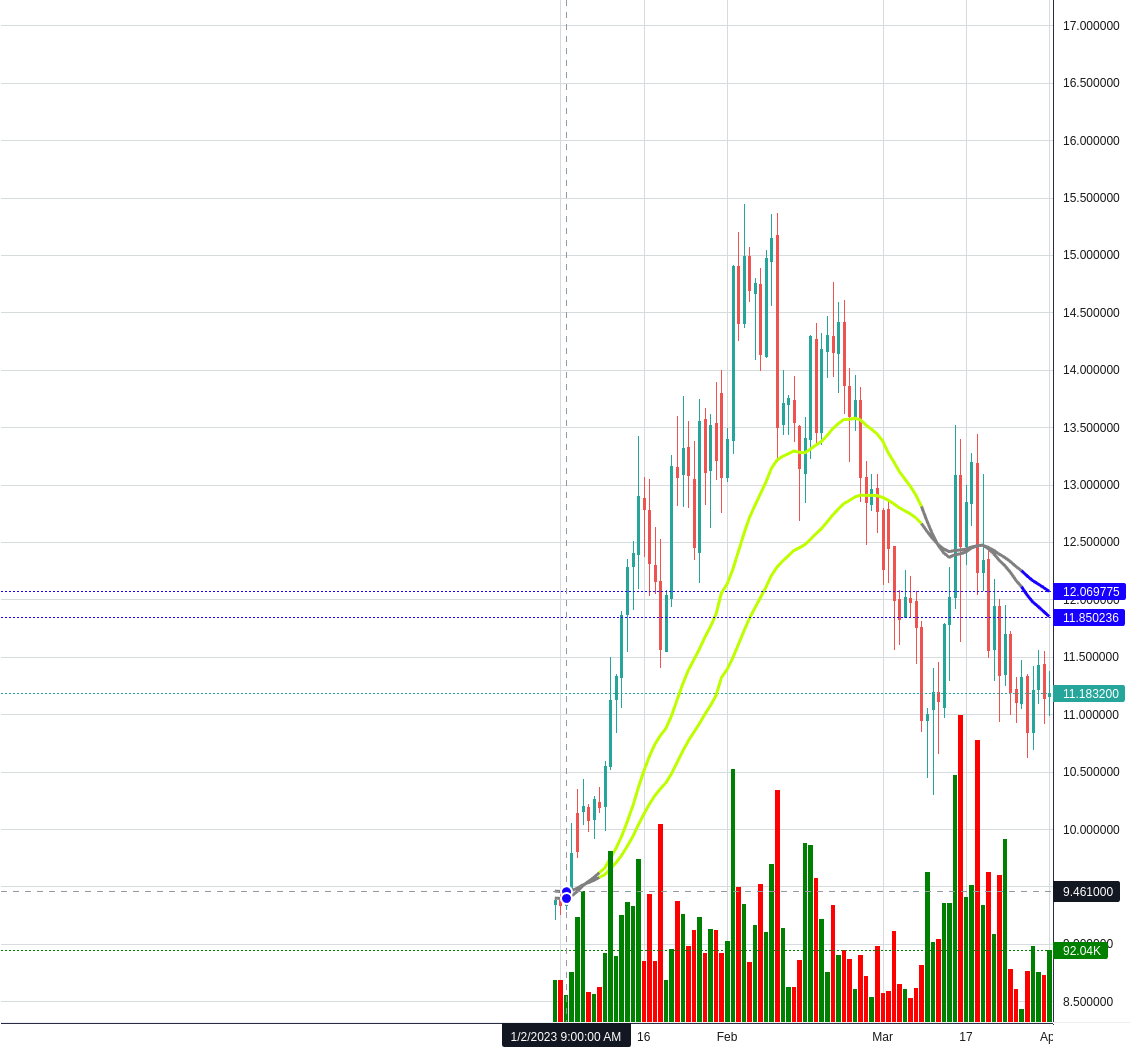
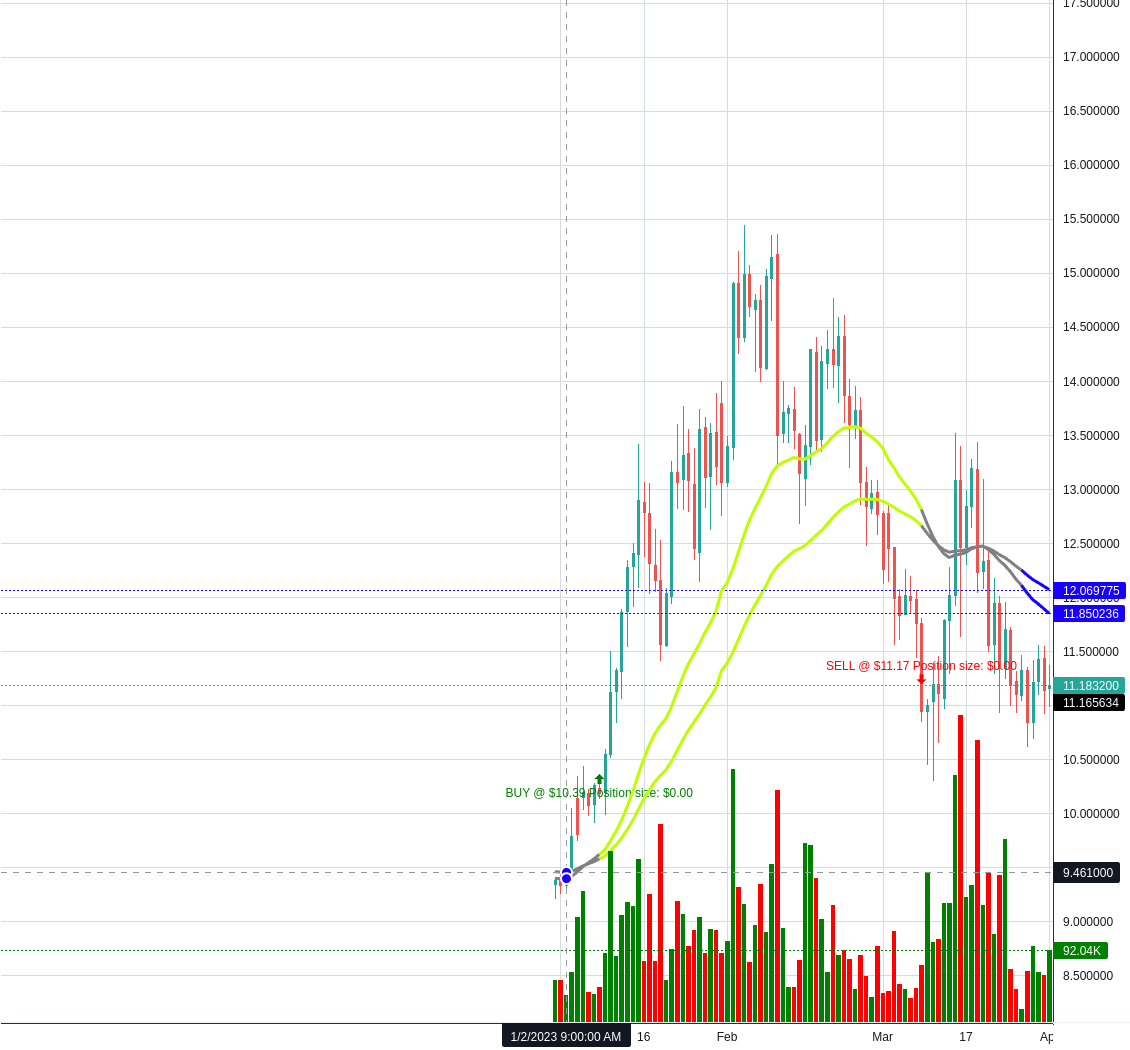
Visualize backtest trades in chart

diff --git a/app/javascript/controllers/asset_pair_chart_component_controller.js b/app/javascript/controllers/asset_pair_chart_component_controller.js
@@ -27,6 +27,7 @@ class Datafeed {
     this.fastTrends = []
     this.volumes = []
     this.candles = []
+    this.backtestTrades = []
   }
 
   load = async () => {
@@ -51,6 +52,7 @@ class Datafeed {
     this.fastTrends = [...data.fastTrends, ...this.fastTrends]
     this.volumes = [...data.volumes, ...this.volumes]
     this.candles = [...data.candles, ...this.candles]
+    this.backtestTrades = [...data.backtestTrades, ...this.backtestTrades]
   }
 }
 
@@ -64,6 +66,7 @@ export default class extends Controller {
     this.loadedRanges = []
     this.chart = createChart(this.element, { localization: { timeFormatter: timeFormatter } })
     this.ohlcSeries = this.chart.addCandlestickSeries()
+    this.backtestTrades = this.chart.addLineSeries({ color: 'transparent', lineWidth: 0, crossHairMarkerVisible: false })
     this.smoothedTrendSlow = this.chart.addLineSeries()
     this.smoothedTrendFast = this.chart.addLineSeries()
     this.volumeSeries = this.chart.addHistogramSeries(volumeHistogramOptions)
@@ -85,6 +88,8 @@ export default class extends Controller {
     this.smoothedTrendFast.setData(this.datafeed.fastTrends);
     this.volumeSeries.setData(this.datafeed.volumes);
     this.ohlcSeries.setData(this.datafeed.candles);
+    this.backtestTrades.setData(this.datafeed.backtestTrades.map(({ time, value }) => ({ time, value })));
+    this.backtestTrades.setMarkers(this.datafeed.backtestTrades);
     this._loading = false
   }
 

diff --git a/app/models/ohlc.rb b/app/models/ohlc.rb
@@ -8,6 +8,8 @@ class Ohlc < ApplicationRecord
 
   has_one :smoothed_trend, query_constraints: %i[asset_pair_id iso8601_duration range_position],
                            dependent: :restrict_with_exception
+  has_one :backtest_trade, query_constraints: %i[asset_pair_id iso8601_duration range_position],
+                           dependent: :restrict_with_exception
 
   def hl2 = (high + low) / 2
 

diff --git a/app/controllers/chart_ticks_controller.rb b/app/controllers/chart_ticks_controller.rb
@@ -5,7 +5,7 @@ class ChartTicksController < ApplicationController
 
   def index
     @ohlcs = Ohlc.by_duration(duration)
-                 .includes(:smoothed_trend)
+                 .includes(:smoothed_trend, backtest_trade: :backtest)
                  .where(asset_pair:)
 
     @ohlcs = @ohlcs.where(range_position: ...params[:next_range_position]) if params[:next_range_position].present?

diff --git a/app/models/backtest_trade.rb b/app/models/backtest_trade.rb
@@ -1,4 +1,11 @@
 # frozen_string_literal: true
 
 class BacktestTrade < ApplicationRecord
+  include DurationConcern
+  include RangeConcern
+
+  belongs_to :backtest, query_constraints: %i[asset_pair_id iso8601_duration]
+  belongs_to :ohlc, query_constraints: %i[asset_pair_id iso8601_duration range_position]
+
+  enum trade_type: { buy: 'buy', sell: 'sell' }
 end

diff --git a/test/system/asset_pair_chart_test.rb b/test/system/asset_pair_chart_test.rb
@@ -9,6 +9,8 @@ class AssetPairChartTest < ApplicationSystemTestCase
     Ohlc.where(asset_pair:).by_duration(1.day).order(:range_position)
         .each { |ohlc| SmoothedTrendService.call(ohlc) }
 
+    BacktestJob.perform_now(backtests(:atom))
+
     visit(root_path)
     click_on('Asset Pairs')
   end
